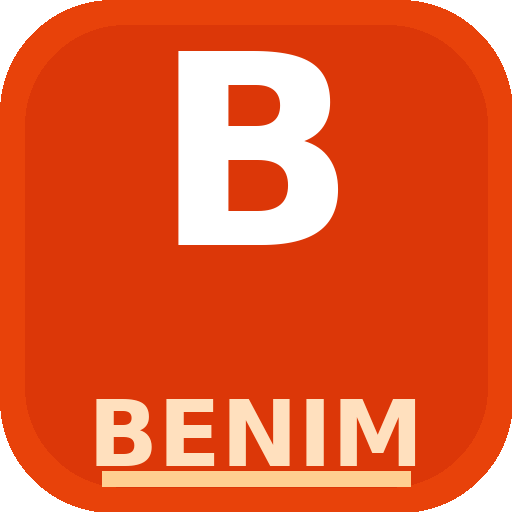
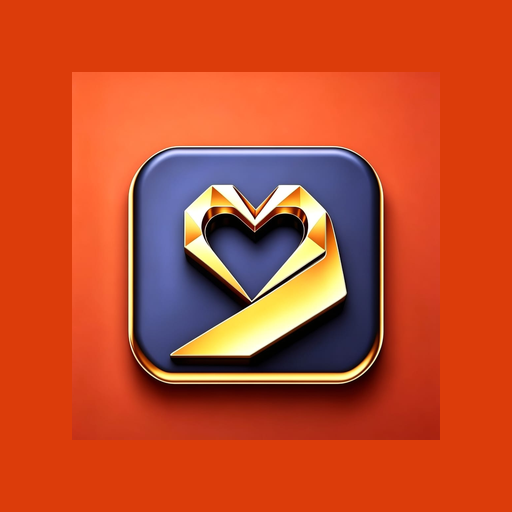
Add files via upload

diff --git a/index.html b/index.html
@@ -5,7 +5,7 @@
 <meta name="viewport" content="width=device-width, initial-scale=1.0">
 <title>Benim Shop</title>
 <meta name="description" content="Benim — Your trusted online shopping destination. Quality products, fast delivery, great prices.">
-<meta name="theme-color" content="#e8420a">
+<meta name="theme-color" content="#DC3C0A">
 <meta name="mobile-web-app-capable" content="yes">
 <meta name="apple-mobile-web-app-capable" content="yes">
 <meta name="apple-mobile-web-app-status-bar-style" content="black-translucent">
@@ -607,33 +607,6 @@ body{padding-bottom:70px}
 .faq-item.open .faq-q i{transform:rotate(180deg)}
 .faq-item.open .faq-a{display:block}
 
-/* ===== SPLASH SCREEN ===== */
-#splash-screen{position:fixed;inset:0;z-index:99999;display:flex;align-items:center;justify-content:center;overflow:hidden;transition:opacity .8s ease,transform .8s ease}
-#splash-screen.fade-out{opacity:0;pointer-events:none;transform:scale(1.06)}
-.splash-bg{position:absolute;inset:0;background:#0d0500}
-.splash-bg::before{content:'';position:absolute;inset:0;background:radial-gradient(ellipse 80% 60% at 50% 40%,#2a0e00 0%,#0d0500 65%)}
-.splash-bg::after{content:'';position:absolute;inset:0;background:radial-gradient(ellipse 50% 50% at 50% 50%,rgba(232,80,10,.13) 0%,transparent 70%)}
-.splash-particles{position:absolute;inset:0;overflow:hidden;pointer-events:none}
-.splash-particle{position:absolute;border-radius:50%;animation:particleDrift linear infinite}
-@keyframes particleDrift{0%{transform:translateY(100vh) scale(0);opacity:0}10%{opacity:1}90%{opacity:.5}100%{transform:translateY(-20vh) scale(1);opacity:0}}
-.splash-content{position:relative;z-index:2;display:flex;flex-direction:column;align-items:center;padding:24px;text-align:center}
-.splash-glow-ring{position:absolute;width:260px;height:260px;border-radius:50%;border:1px solid rgba(232,80,10,.15);box-shadow:0 0 60px rgba(232,80,10,.1),inset 0 0 60px rgba(232,80,10,.05);animation:ringPulse 3s ease-in-out infinite}
-.splash-glow-ring2{position:absolute;width:340px;height:340px;border-radius:50%;border:1px solid rgba(232,80,10,.07);animation:ringPulse 3s ease-in-out infinite .8s}
-@keyframes ringPulse{0%,100%{transform:scale(1);opacity:.6}50%{transform:scale(1.05);opacity:1}}
-.splash-icon{font-size:38px;margin-bottom:10px;animation:splashFadeUp .6s cubic-bezier(.34,1.56,.64,1) .2s both;filter:drop-shadow(0 0 20px rgba(232,80,10,.8))}
-.splash-brand{font-family:'Poppins',sans-serif;font-size:64px;font-weight:900;letter-spacing:14px;background:linear-gradient(135deg,#e8500a 0%,#ff8c42 40%,#ffd060 60%,#ff8c42 80%,#e8500a 100%);-webkit-background-clip:text;-webkit-text-fill-color:transparent;background-clip:text;text-shadow:none;filter:drop-shadow(0 0 30px rgba(232,80,10,.5));margin-bottom:6px;animation:splashFadeUp .8s cubic-bezier(.34,1.56,.64,1) .35s both}
-.splash-divider{width:60px;height:2px;background:linear-gradient(90deg,transparent,#e8500a,#ffd060,#e8500a,transparent);margin:10px auto 14px;border-radius:99px;animation:splashFadeUp .6s ease .55s both}
-.splash-tagline{font-family:'Poppins',sans-serif;font-size:13px;font-weight:500;color:rgba(255,200,120,.7);text-align:center;margin-bottom:8px;animation:splashFadeUp .7s ease .65s both;line-height:1.6;letter-spacing:2px;text-transform:uppercase}
-.splash-tagline strong{color:#ffd060;font-weight:800}
-.splash-sub{font-family:'Poppins',sans-serif;font-size:11px;color:rgba(200,130,60,.5);letter-spacing:1px;text-transform:uppercase;margin-bottom:36px;animation:splashFadeUp .6s ease .75s both}
-.splash-loader{width:200px;display:flex;flex-direction:column;align-items:center;gap:8px;animation:splashFadeUp .7s ease .85s both}
-.splash-bar{width:100%;height:2px;background:rgba(232,80,10,.15);border-radius:99px;overflow:hidden}
-.splash-fill{height:100%;width:0%;background:linear-gradient(90deg,#a03008,#e8500a,#ffd060,#e8500a,#a03008);background-size:200%;border-radius:99px;transition:width .12s ease;box-shadow:0 0 10px rgba(232,80,10,.8);animation:shimmer 1.5s linear infinite}
-@keyframes shimmer{0%{background-position:100%}100%{background-position:-100%}}
-.splash-pct{font-family:'Poppins',sans-serif;font-size:10px;font-weight:700;color:rgba(200,120,60,.5);letter-spacing:2px}
-@keyframes splashFadeUp{from{opacity:0;transform:translateY(20px)}to{opacity:1;transform:translateY(0)}}
-
-
 /* Delivery Type Toggle */
 .delivery-type-row{display:flex;gap:8px;margin-bottom:14px}
 .delivery-type-btn{flex:1;display:flex;flex-direction:column;align-items:center;justify-content:center;gap:4px;padding:12px 6px;border-radius:10px;border:2px solid var(--gray-200);background:#fff;cursor:pointer;transition:.2s;font-family:'Poppins',sans-serif}
@@ -660,7 +633,7 @@ body{padding-bottom:70px}
 #header{background:#fff!important;box-shadow:0 1px 3px rgba(0,0,0,.08)!important}
 .header-top{padding:12px 14px 10px!important;gap:8px!important}
 .hamburger{color:#222!important;font-size:22px!important;background:none!important;border:none!important;padding:0!important}
-#logo-text{font-family:'Poppins',sans-serif!important;font-weight:900!important;font-size:24px!important;color:#e8420a!important;cursor:pointer!important;letter-spacing:-0.5px!important}
+#logo-text{cursor:pointer!important;display:inline-block!important;vertical-align:middle!important;height:28px!important;width:auto!important}
 .hicon{background:transparent!important;color:#333!important;font-size:22px!important;padding:4px 6px!important;border:none!important}
 .hicon .badge{background:#e8420a!important;color:#fff!important;top:-5px!important;right:-4px!important;width:17px!important;height:17px!important;font-size:9px!important}
 .hicon-label{display:none!important}
@@ -744,8 +717,8 @@ body{padding-bottom:65px!important;background:#f2f2f2!important}
 <body>
 <!-- PWA INSTALL BANNER -->
 <div id="pwa-install-banner">
-  <img class="pwa-banner-icon" src="icon-192.png" alt="Benim" onerror="this.style.display='none';this.nextElementSibling.style.display='flex'">
-  <div class="pwa-banner-icon-fallback" style="display:none">🛍️</div>
+  <img class="pwa-banner-icon" src="icon-192.png" alt="Benim" style="border-radius:12px" onerror="this.style.display='none';this.nextElementSibling.style.display='flex'">
+  <div class="pwa-banner-icon-fallback" style="display:none;background:#000">🛍️</div>
   <div class="pwa-banner-text">
     <div class="pwa-banner-title">Install Benim Shop App</div>
     <div class="pwa-banner-sub" id="pwa-banner-sub">Free · No app store needed</div>
@@ -788,24 +761,6 @@ body{padding-bottom:65px!important;background:#f2f2f2!important}
     </div>
   </div>
 </div>
-<!-- SPLASH SCREEN -->
-<div id="splash-screen">
-  <div class="splash-bg"></div>
-  <div class="splash-particles" id="splash-particles"></div>
-  <div class="splash-content">
-    <div class="splash-glow-ring"></div>
-    <div class="splash-glow-ring2"></div>
-    <div class="splash-icon">🛍️</div>
-    <div class="splash-brand">BENIM</div>
-    <div class="splash-divider"></div>
-    <div class="splash-tagline">Where Smart <strong>TRADE</strong> Begins</div>
-    <div class="splash-sub">Quality · Speed · Trust</div>
-    <div class="splash-loader">
-      <div class="splash-bar"><div class="splash-fill" id="splash-fill"></div></div>
-      <div class="splash-pct" id="splash-pct">LOADING...</div>
-    </div>
-  </div>
-</div>
 
 
 <!-- ====== HEADER ====== -->
@@ -815,8 +770,7 @@ body{padding-bottom:65px!important;background:#f2f2f2!important}
     <button class="hamburger" onclick="toggleSidebar()"><i class="fas fa-bars"></i></button>
     <!-- Logo: show image if available, fallback to styled text -->
     <div style="flex:1;display:flex;align-items:center">
-      <span id="logo-text" onclick="navigate('home')" style="font-family:'Poppins',sans-serif;font-weight:900;font-size:26px;color:var(--orange);cursor:pointer;letter-spacing:-0.5px;line-height:1">BENIM</span>
-      <img id="site-logo" src="IMG-20260507-WA0041_1_.jpg" alt="Benim" class="header-logo" onclick="navigate('home')" onerror="this.style.display='none'" style="display:none;margin-left:6px">
+      <img id="header-logo-img" src="header-logo.png" alt="Benim" onclick="navigate('home')" style="height:32px;width:auto;cursor:pointer;display:inline-block;vertical-align:middle;object-fit:contain">
     </div>
     <div class="header-icons" style="display:flex;align-items:center;gap:4px">
       <button id="dark-mode-btn" onclick="toggleDarkMode()" title="Toggle dark/light mode">🌙</button>
@@ -2310,25 +2264,8 @@ let unsubListeners = [];
 const LOGO_URL = '/mnt/user-data/uploads/IMG-20260507-WA0041_1_.jpg';
 // Use inline base64 as fallback for GitHub Pages (logo will be same folder)
 function setLogos() {
-  // Auth pages logo
-  // logos now embedded as base64 — no external file needed
-  /*
-  ['auth-logo','reg-logo'].forEach(id => {
-    const el = document.getElementById(id);
-    if(el) el.src = 'IMG-20260507-WA0041_1_.jpg';
-  });
-  */
-  // Try to load image logo in header; on success hide text, on error keep text
-  const imgLogo = document.getElementById('site-logo');
-  if(imgLogo) {
-    imgLogo.onload = function() {
-      this.style.display = 'block';
-      const textLogo = document.getElementById('logo-text');
-      if(textLogo) textLogo.style.display = 'none';
-    };
-    imgLogo.onerror = function() { this.style.display = 'none'; };
-    imgLogo.src = 'IMG-20260507-WA0041_1_.jpg';
-  }
+  // SVG logo is now inline — no external file needed
+  // site-logo img is hidden by default, SVG shows always
 }
 setLogos();
 
@@ -5197,41 +5134,6 @@ if('serviceWorker' in navigator) {
 
 init();
 
-// ===== SPLASH SCREEN ANIMATION =====
-(function() {
-  const splash = document.getElementById('splash-screen');
-  const fill   = document.getElementById('splash-fill');
-  const pct    = document.getElementById('splash-pct');
-  if (!splash) return;
-  // Generate floating particles
-  const pc = document.getElementById('splash-particles');
-  if (pc) {
-    const colors = ['rgba(232,80,10,.6)','rgba(255,140,66,.5)','rgba(255,208,96,.4)','rgba(180,60,10,.5)'];
-    for(let i=0;i<18;i++){
-      const p = document.createElement('div');
-      p.className = 'splash-particle';
-      const size = Math.random()*4+2;
-      p.style.cssText = `width:${size}px;height:${size}px;left:${Math.random()*100}%;background:${colors[Math.floor(Math.random()*colors.length)]};animation-duration:${Math.random()*6+5}s;animation-delay:${Math.random()*4}s;box-shadow:0 0 ${size*2}px ${colors[0]}`;
-      pc.appendChild(p);
-    }
-  }
-  let tick = 0;
-  const steps = 87;
-  const timer = setInterval(() => {
-    tick++;
-    const raw = tick / steps;
-    const progress = Math.min(100, Math.round((1 - Math.pow(1 - raw, 2)) * 100));
-    if (fill) fill.style.width = progress + '%';
-    if (pct)  pct.textContent  = progress < 100 ? 'LOADING...' : 'READY ✓';
-    if (tick >= steps) {
-      clearInterval(timer);
-      setTimeout(() => {
-        splash.classList.add('fade-out');
-        setTimeout(() => { splash.style.display = 'none'; }, 800);
-      }, 300);
-    }
-  }, 30);
-})();
 
 </script>
 </body>